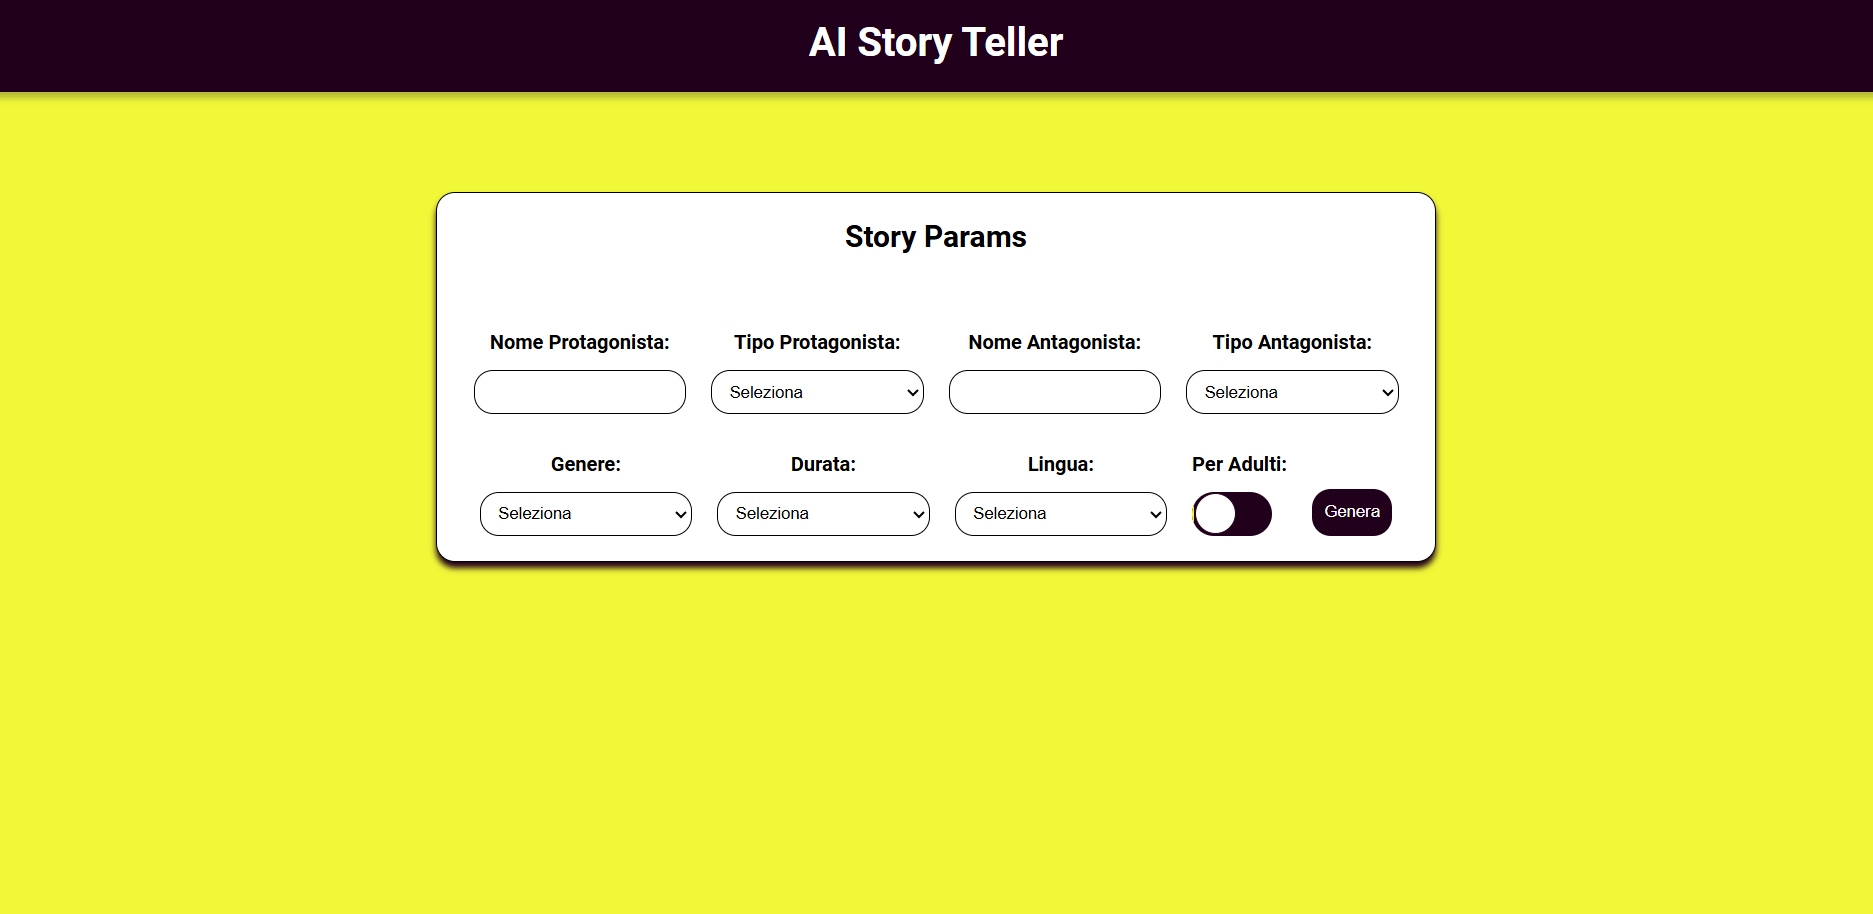
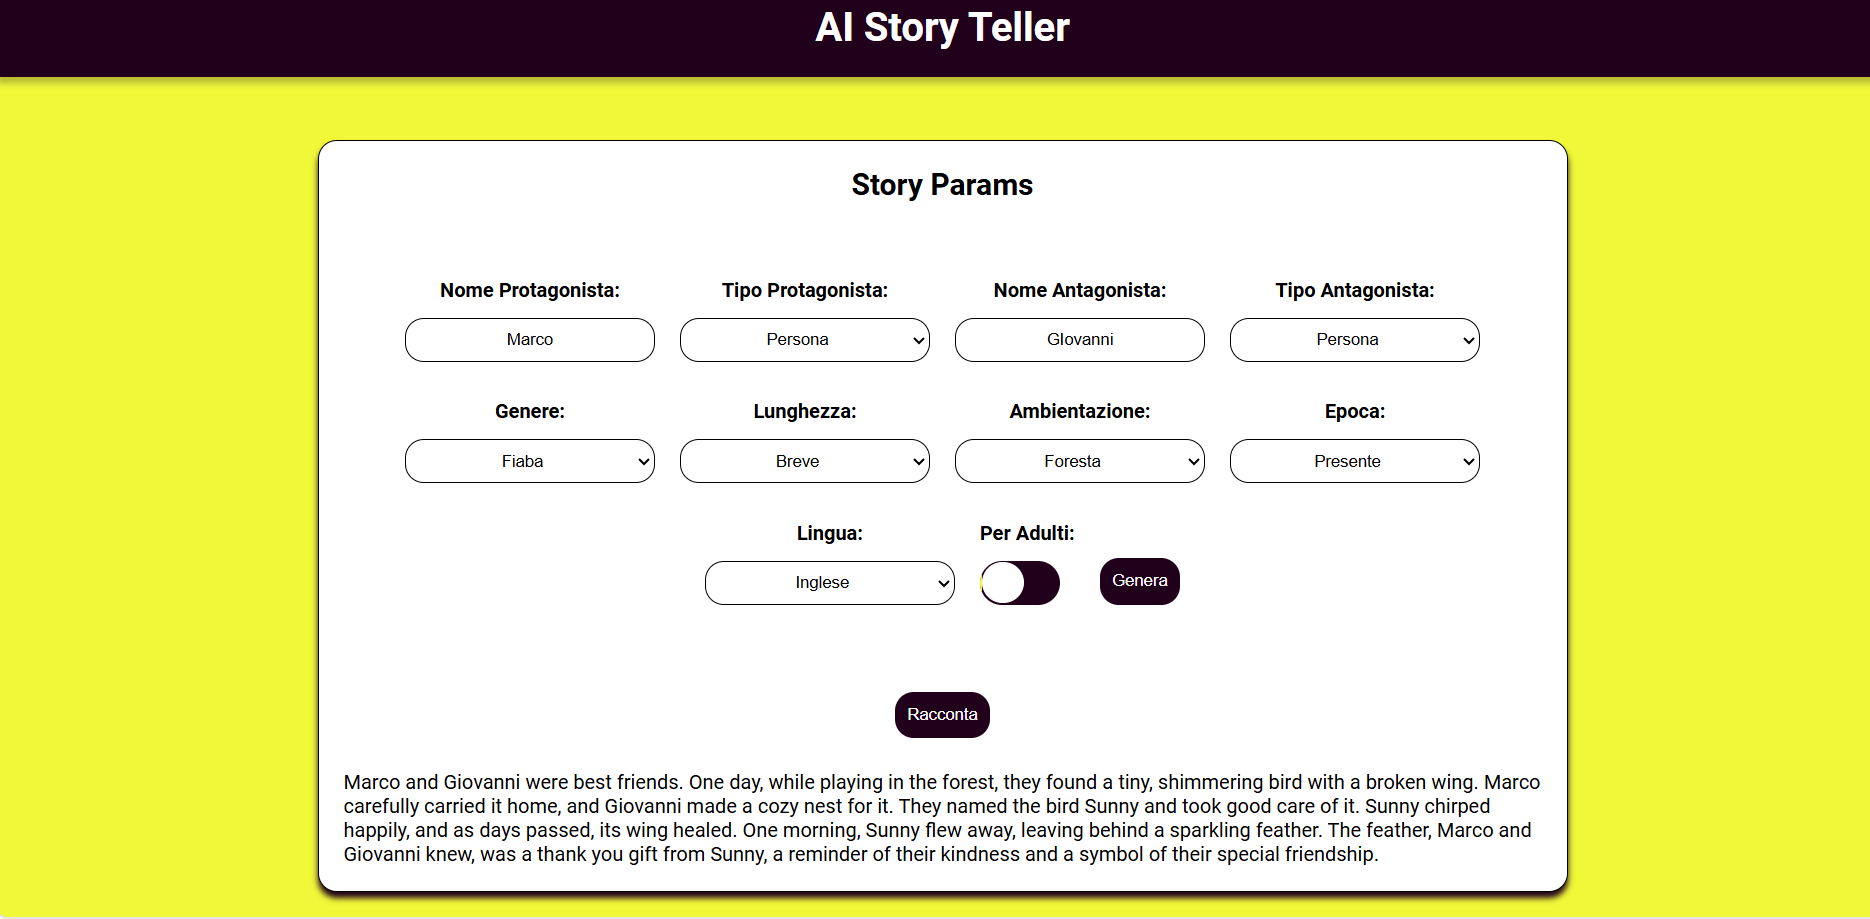
layout

diff --git a/src/components/Organism/WindowBox/WindowBox.module.scss b/src/components/Organism/WindowBox/WindowBox.module.scss
@@ -19,7 +19,8 @@
 @media (max-width: 768px) {
   .main {
     width: 70%; 
-    max-width: 260px; 
+    max-width: 450px; 
+    margin: auto;
     padding: 15px; 
     box-shadow: 0px 4px 4px var(--color-20); 
     border-radius: 5px; 
@@ -34,8 +35,8 @@
 /* Media query per smartphone */
 @media (max-width: 480px) {
   .main {
-    width: 80%; 
-    max-width: 320px; 
+    width: 90%; 
+    max-width: 200px; 
     padding: 10px; 
     box-shadow: 0px 3px 3px var(--color-20); 
     border-radius: 25px; 

diff --git a/src/styles/Home.module.css b/src/styles/Home.module.css
@@ -36,8 +36,9 @@
   margin-top: 60px;
   box-shadow: none;
   text-align: left;
-  width: 100%;
+  width: 95%;
   margin-top: 30px;
+  margin: 30px;
 }
 
 .btn {
@@ -109,7 +110,7 @@
     margin-top: 60px;
     box-shadow: none;
     text-align: left;
-    width: 100%;
+    width: 80%;
     margin-top: 30px;
   }
 

diff --git a/src/components/Atoms/Toast/Toast.module.scss b/src/components/Atoms/Toast/Toast.module.scss
@@ -8,7 +8,7 @@
     border-radius: 10px;
     background-color: var(--color-0);
     position: fixed;
-    top: 160px; // Spazio dall'alto
+    top: 130px; // Spazio dall'alto
     right: 80px; // Spazio dalla destra
     z-index: 1000;
     display: flex;

diff --git a/src/components/Molecules/InputBox/InputBox.module.scss b/src/components/Molecules/InputBox/InputBox.module.scss
@@ -10,7 +10,7 @@
         border: rem(1px, 16px) solid var(--color-100);
         margin-top: 8px;
         height: 35px;
-        width: 200px;
+        width: 210px;
         border-radius: 15px;
         text-align: center;
     }

diff --git a/src/components/Molecules/SelectBox/SelectBox.module.scss b/src/components/Molecules/SelectBox/SelectBox.module.scss
@@ -12,7 +12,7 @@
     border: rem(1px, 16px) solid var(--color-100);
     margin-top: 8px;
     height: 35px;
-    width: 200px;
+    width: 210px;
     border-radius: 15px;
     text-align: center;
   }
